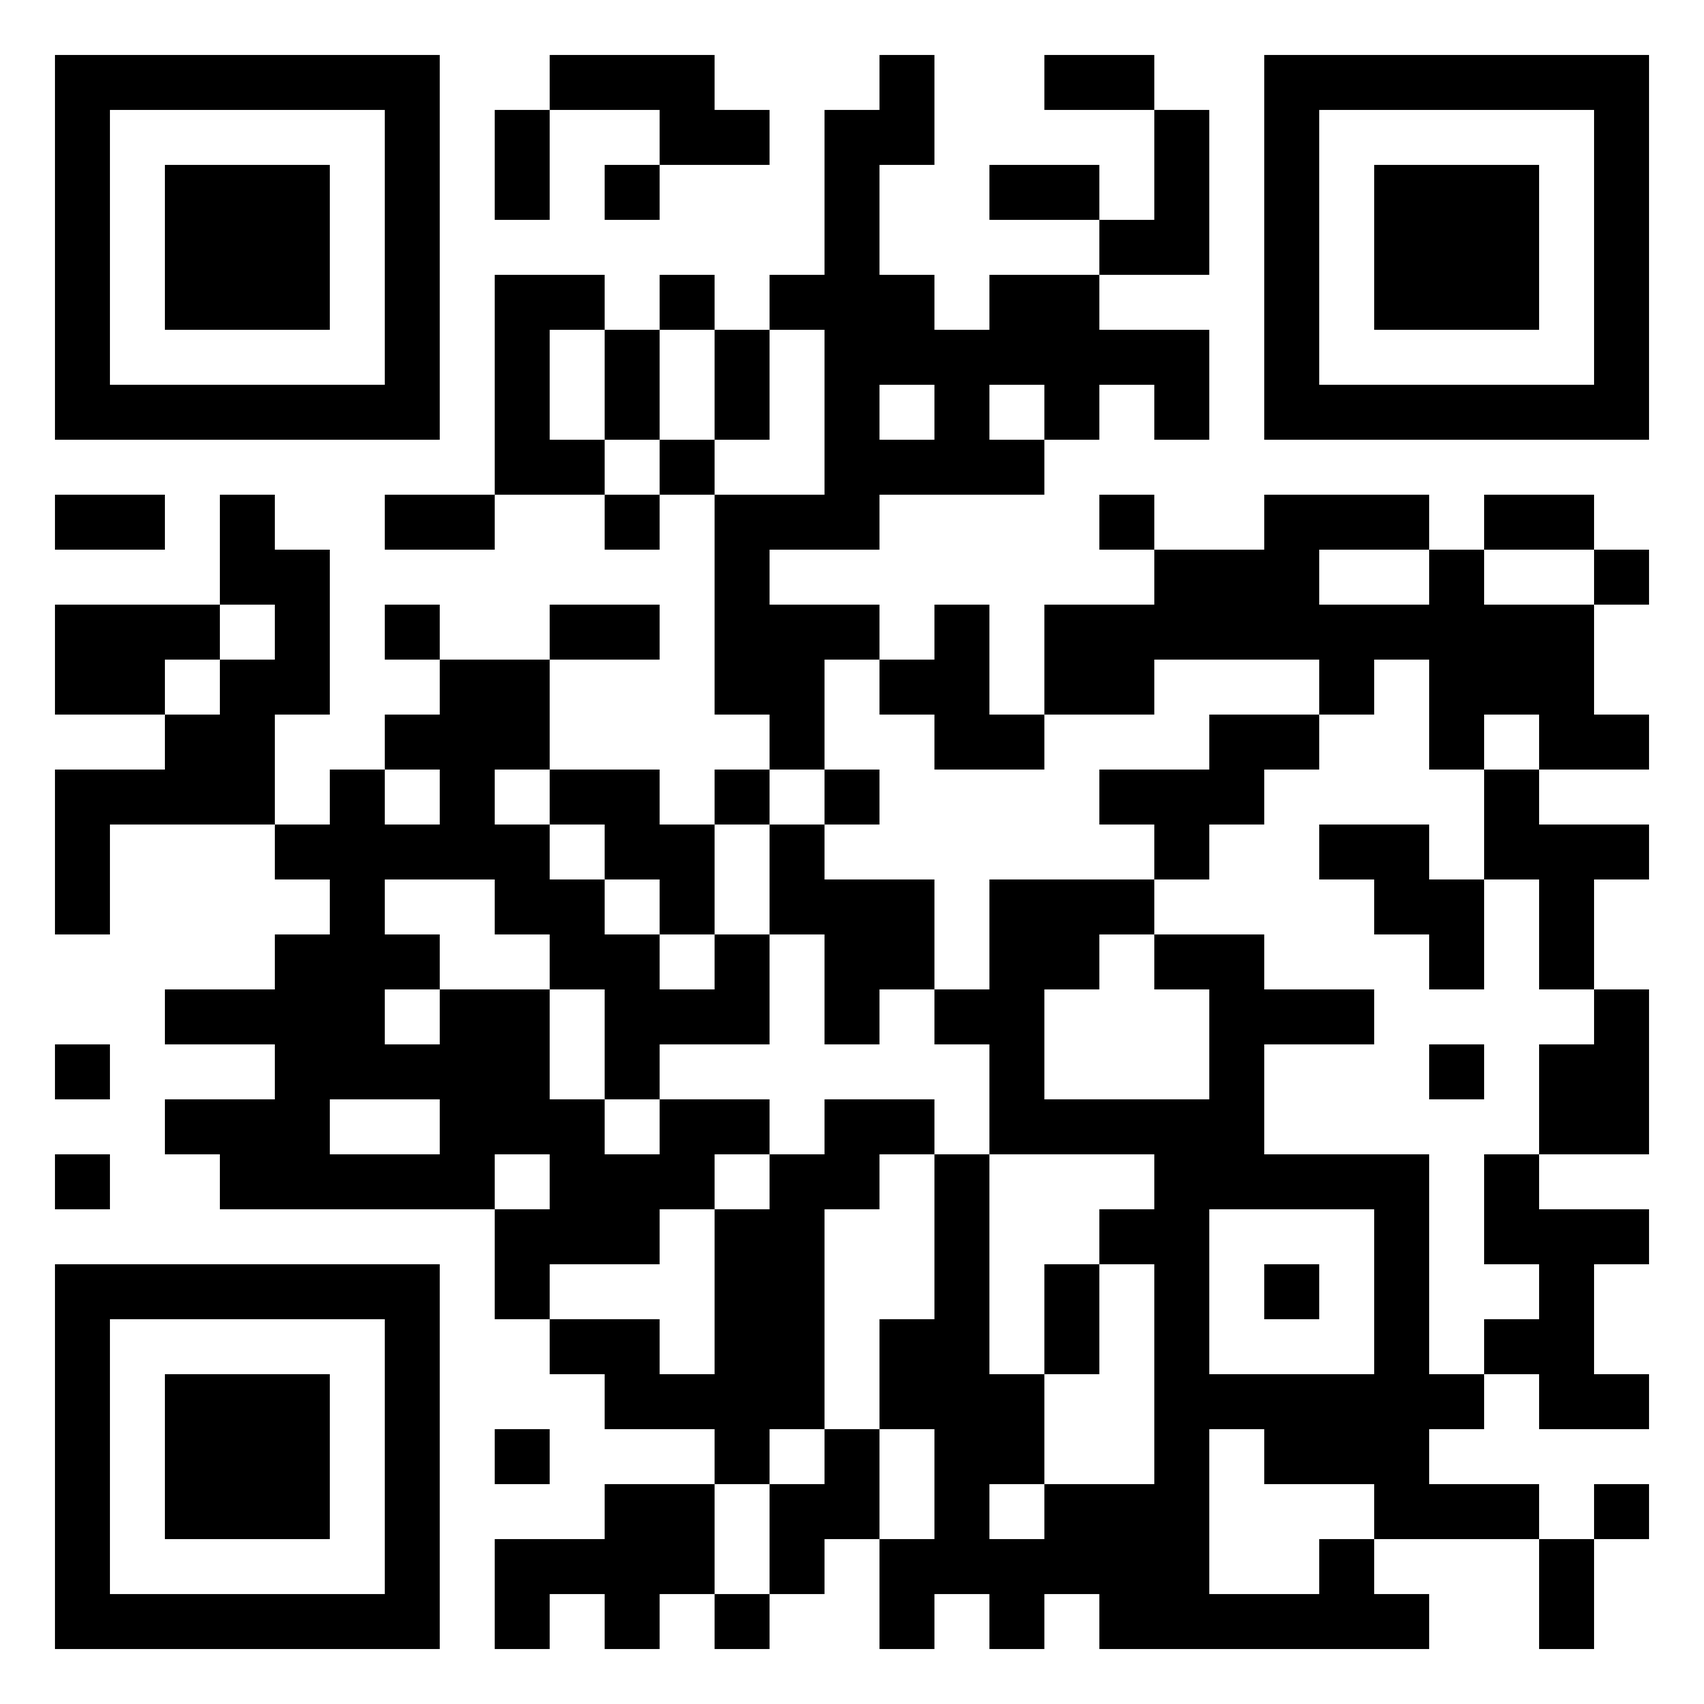
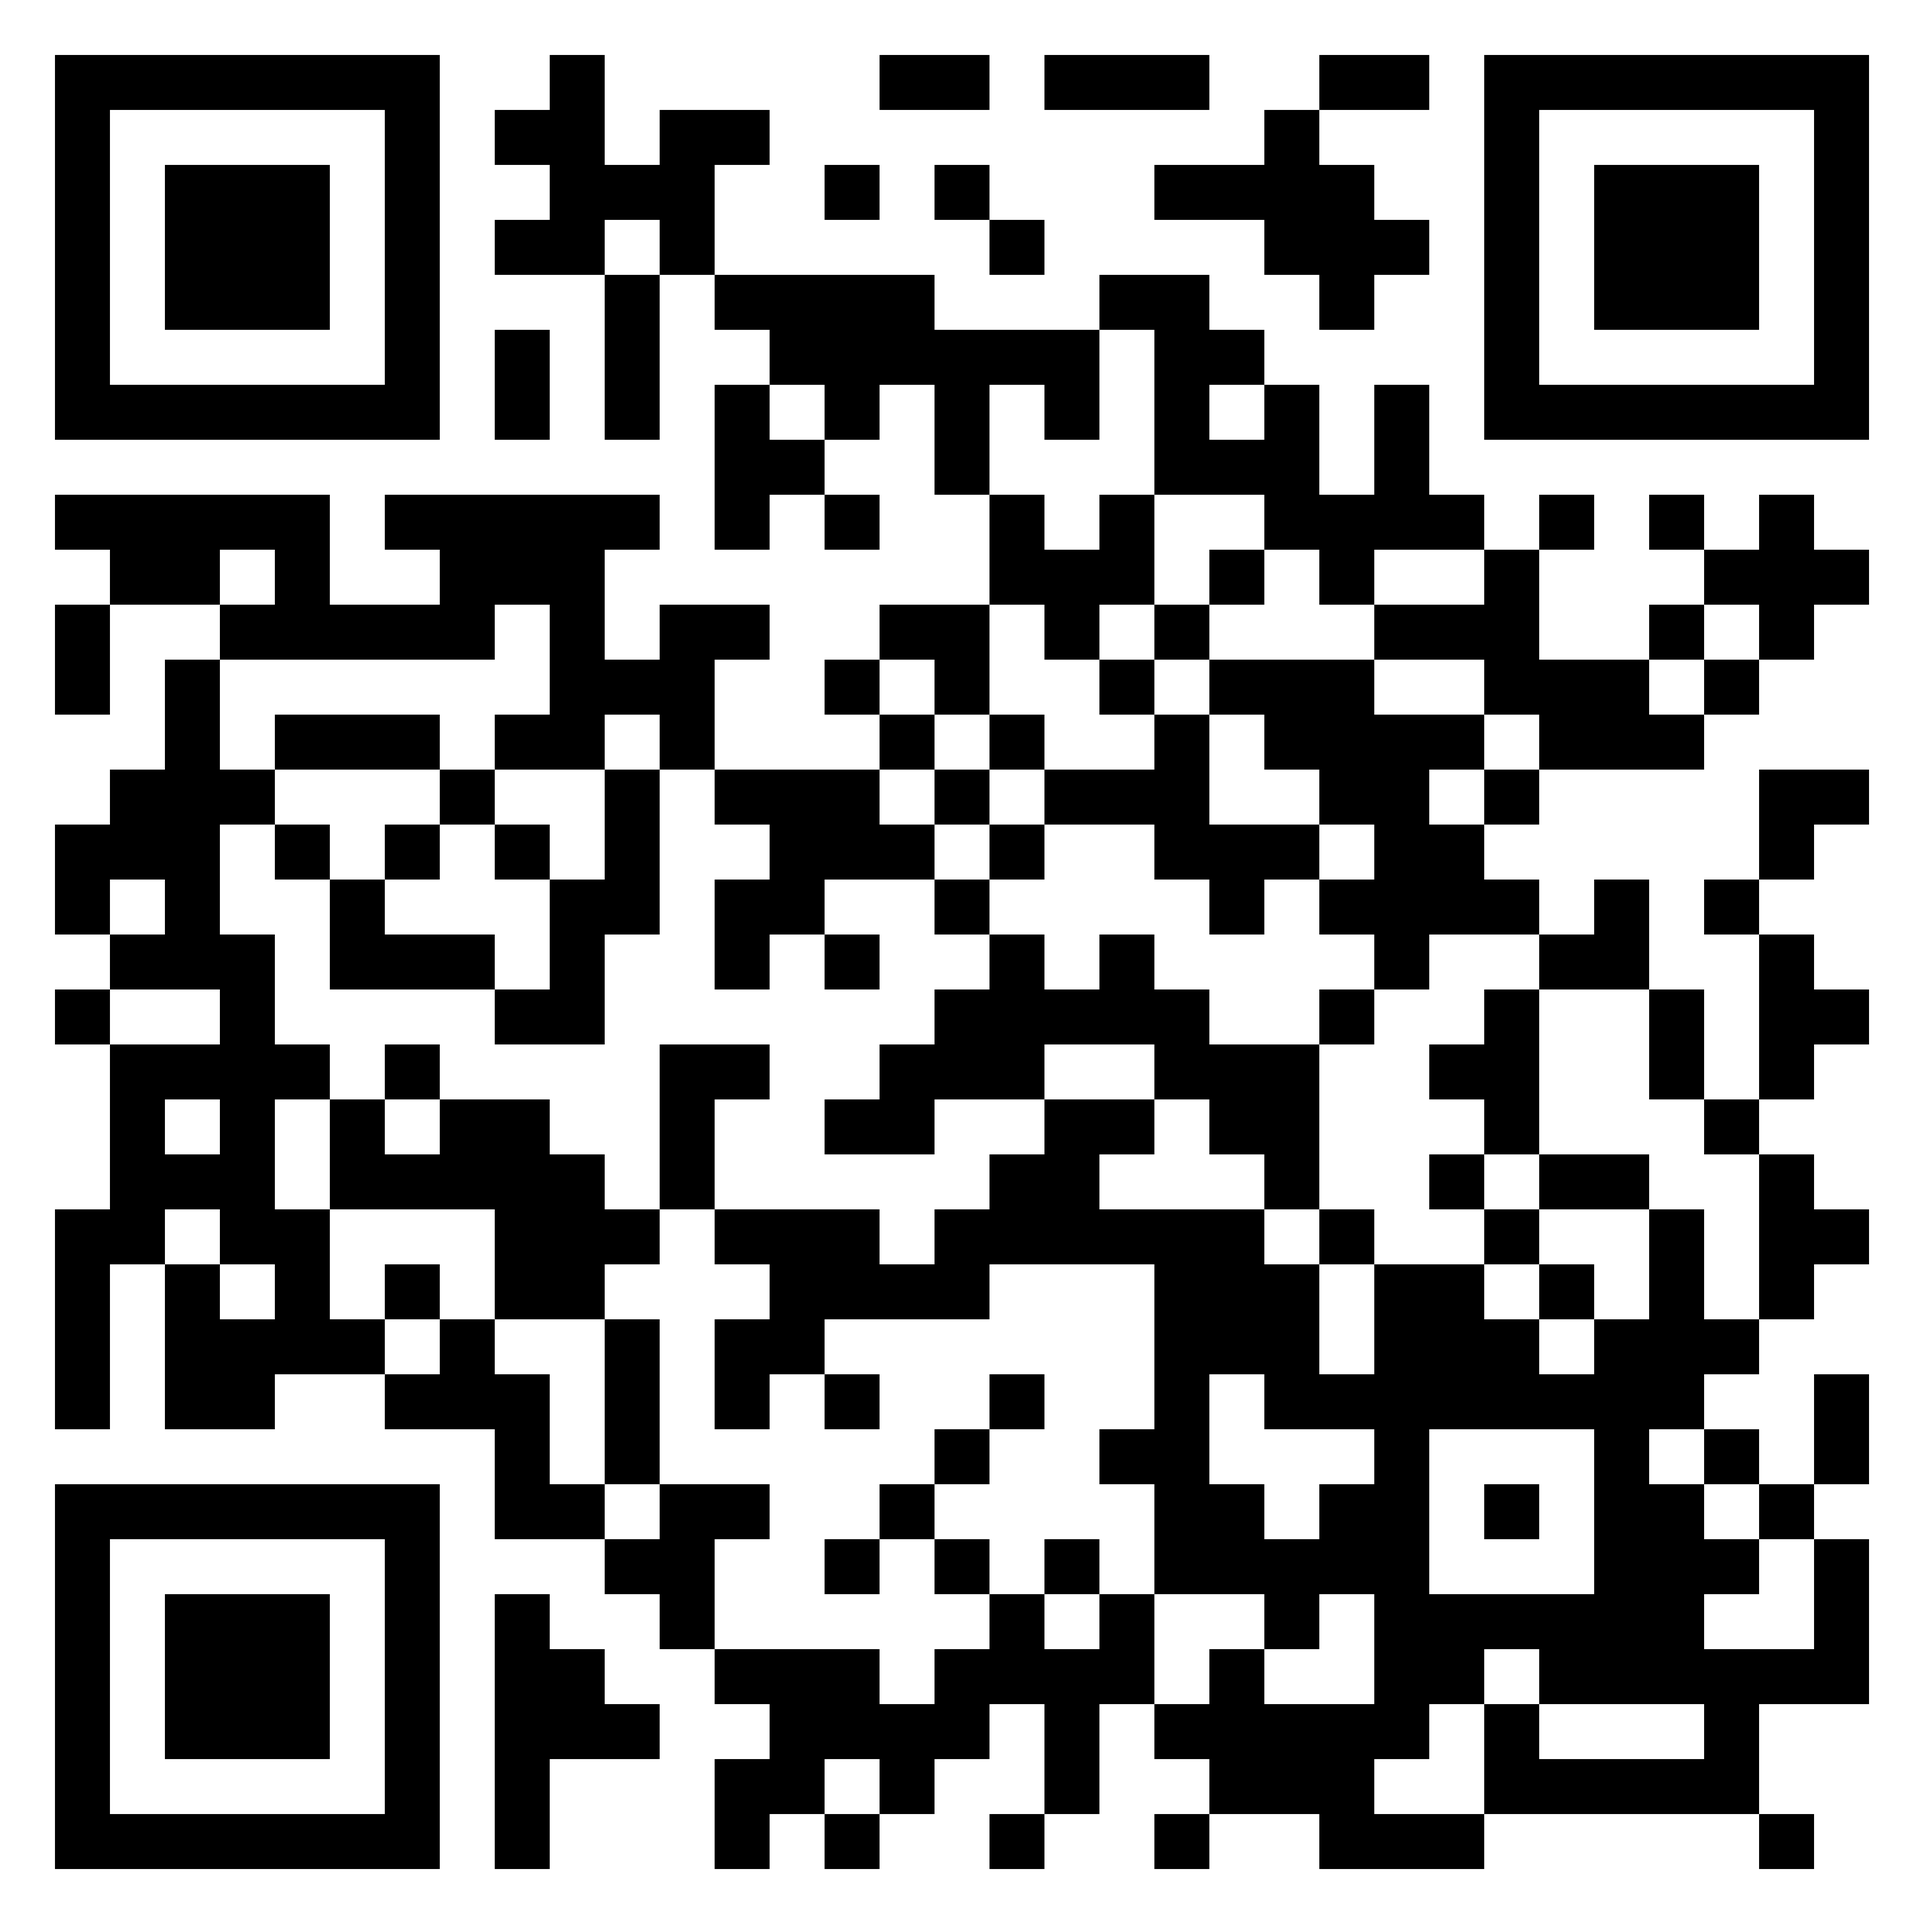
updated the QR code to the new url

diff --git a/README.md b/README.md
@@ -1,3 +1,5 @@
-##EIE1 UCIS evaluation
+## EIE1 UCIS Design Thiking
 
-This lecture explores how to use the knowlege previously presented in the course to evaluate whether a design is effective or not.
+This lecture explores what is meant by design thinking and how it can be applied to your Exercise 3 coursework.
+
+Website for the slides: https://stfleming.github.io/icl-eie1-ucis-design-thinking/
